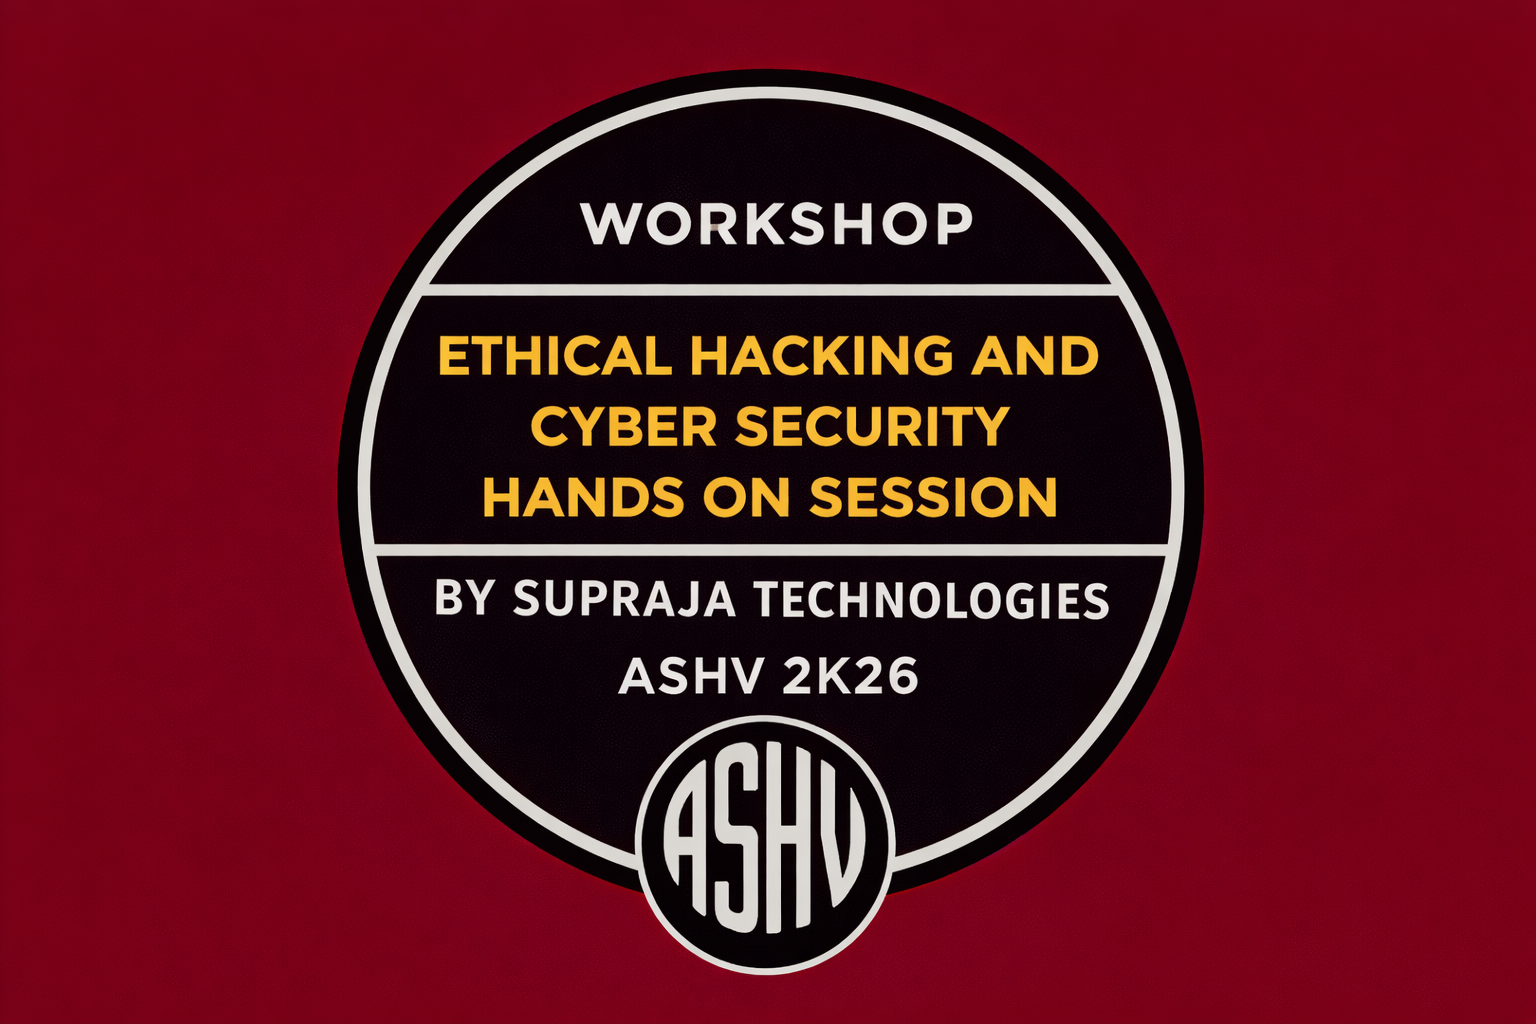
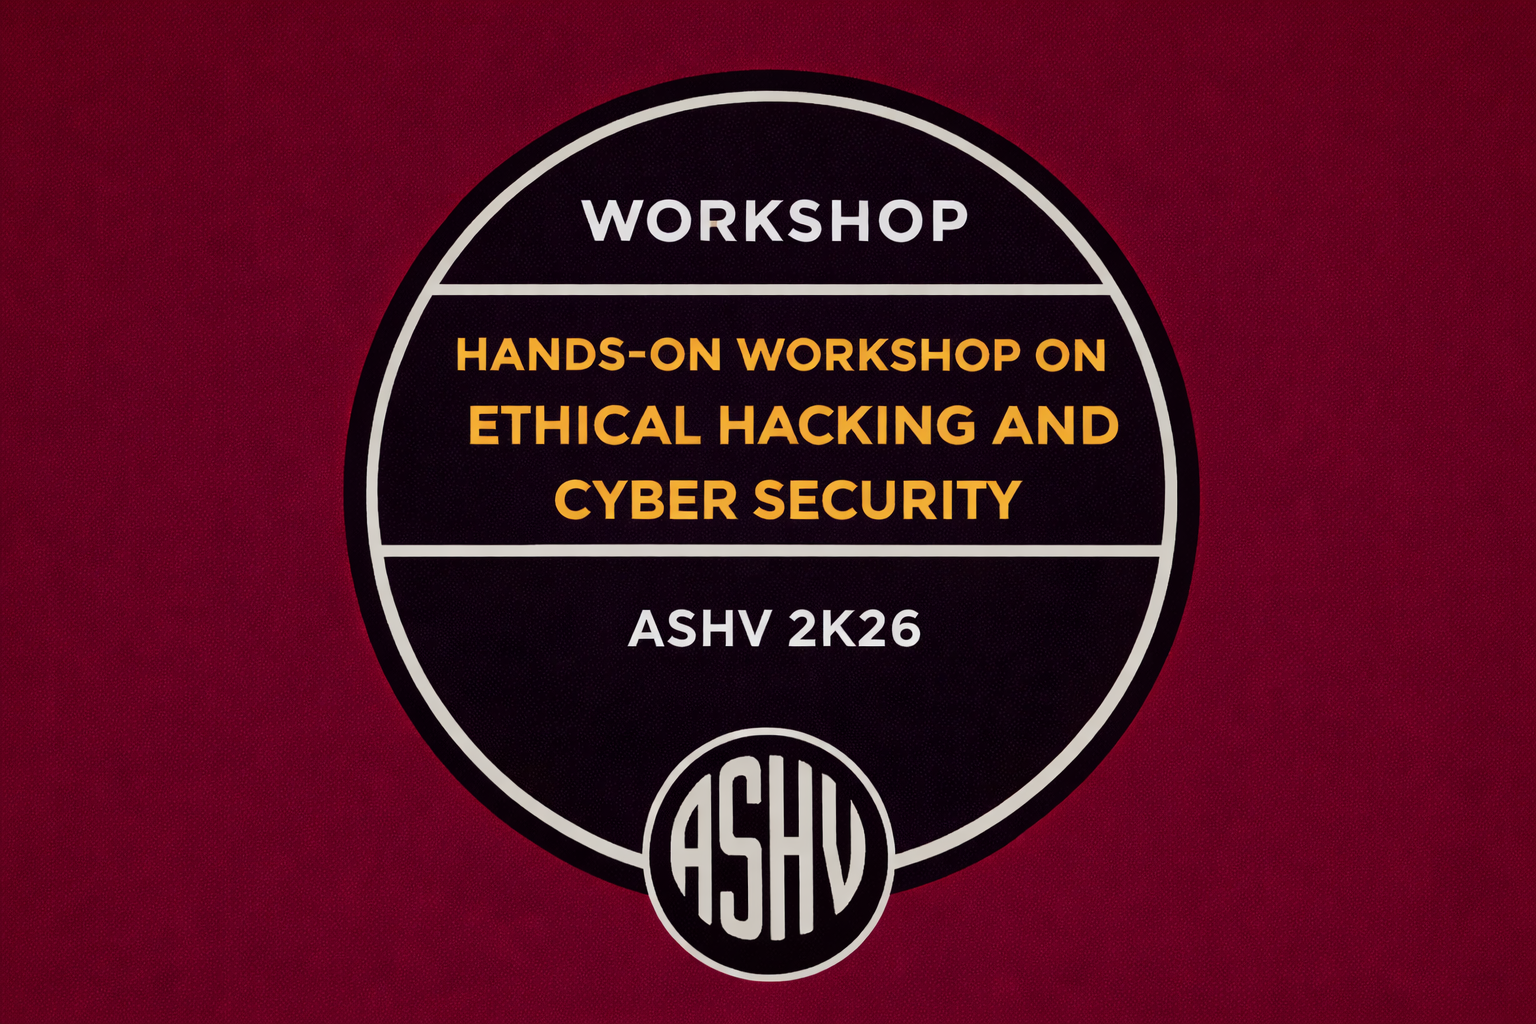
cybersecurity workshop updated

Changed region(s): [[0.0, 0.0, 1.0, 1.0], [0.375, 0.1875, 0.625, 0.25]]

diff --git a/eventTiles.html b/eventTiles.html
@@ -536,7 +536,7 @@
                         "description": "Unlock the potential of data analytics. Gain insights into data processing, analysis techniques, and real-world applications."
                     },
                     {
-                        "name": "Ethical Hacking and Cyber Security Hands on session by supraja technologies",
+                        "name": " Hands-On Workshop on Ethical Hacking and Cyber Security",
                         "price": 300,
                         "link": "https://forms.gle/fp5qpb7PHY7jRZe36",
                         "image": "assets/tech/cyber.png",

diff --git a/assets/styles/style.css b/assets/styles/style.css
@@ -908,7 +908,8 @@ header {
 	/* background-image:url(../../backgrounds/image.png) ;
 	background-size: cover;
 	background-repeat: no-repeat; */
-	background: linear-gradient(to right, #BF953F, #FCF6BA, #B38728, #FBF5B7, #AA771C);
+	background: linear-gradient(to right, #3c3c3d, #BF953F, #3c3c3d, #BF953F, #3c3c3d);
+	/* background:linear-gradient(to bottom, #B38728, #1a1a40); */
   
 	
 }
